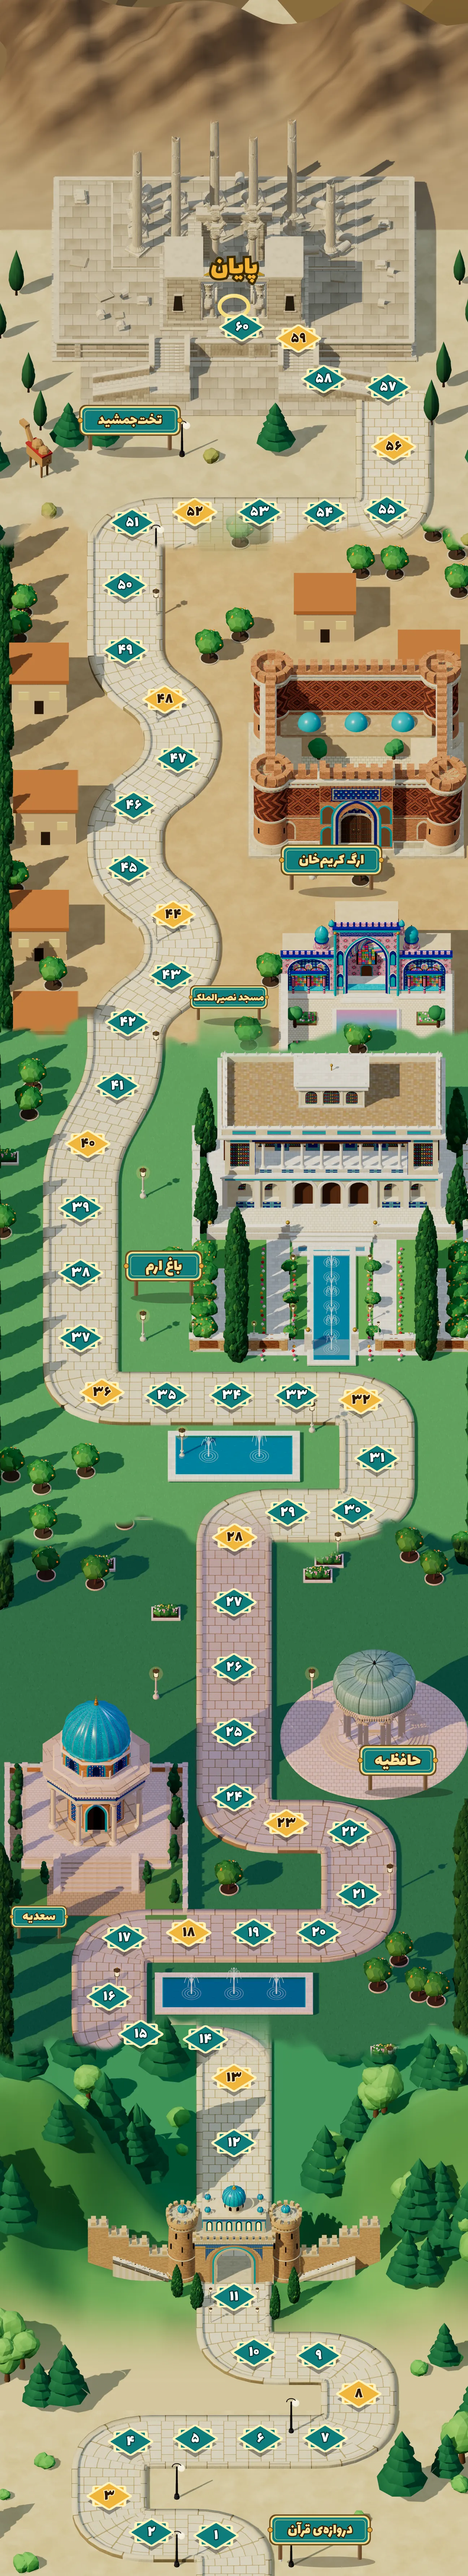
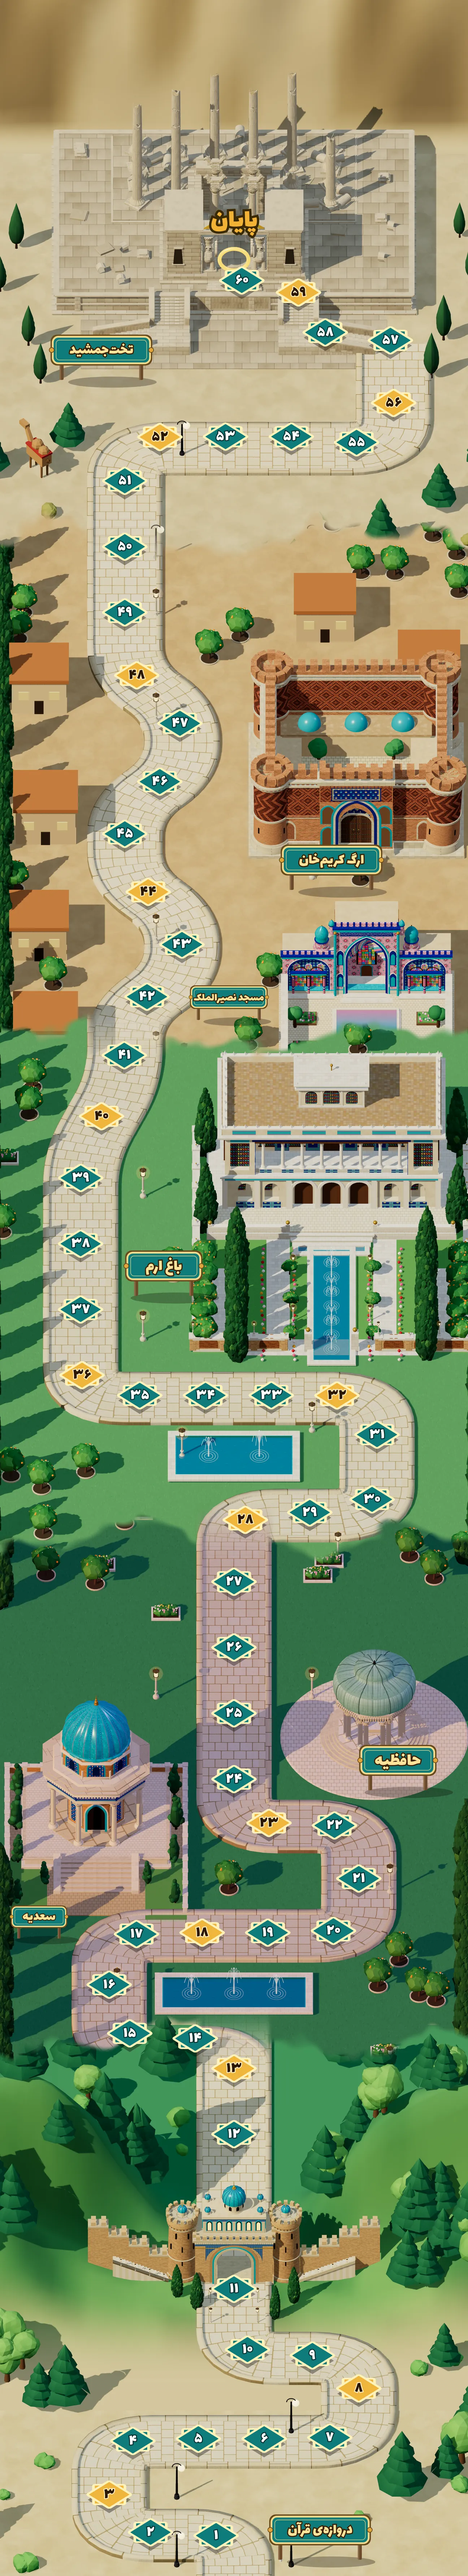
Shiraz board: Persepolis end: clean hills behind the terrace, road no longer under the citadel
Claude-Session: https://claude.ai/code/session_01Rjy4C5wyMsBPrp6gT8ag68

diff --git a/js/maps.js b/js/maps.js
@@ -14,8 +14,8 @@ const MAPS = [
     cities: ['دروازهی قرآن','حافظیه','باغ ارم','ارگ کریمخان','تختجمشید'],
     finish: 'تختجمشید', goalText: 'به تختجمشید رسیدی! کورش و داریوش منتظرتاند',
     image: 'assets/map-shiraz.webp', lite: 'assets/map-shiraz-lite.webp', preview: 'assets/map-shiraz-prev.webp', ratio: 2160 / 11880,
-    coords: [[46.16, 98.56], [32.347, 98.437], [23.333, 97.031], [27.902, 94.914], [41.724, 94.803], [55.601, 94.803], [69.474, 94.783], [76.667, 93.062], [68.104, 91.577], [54.292, 91.448], [50.0, 89.292], [50.0, 83.319], [50.0, 80.795], [43.909, 79.296], [30.075, 79.097], [23.333, 77.639], [26.594, 75.357], [40.323, 75.157], [54.2, 75.157], [68.077, 75.151], [76.667, 73.671], [74.693, 71.256], [61.185, 70.915], [50.065, 69.9], [50.0, 67.377], [50.0, 64.854], [50.0, 62.331], [50.149, 59.811], [61.469, 58.844], [75.314, 58.765], [80.556, 56.743], [77.105, 54.484], [63.36, 54.298], [49.483, 54.298], [35.606, 54.298], [21.784, 54.188], [17.222, 52.07], [17.222, 49.547], [17.222, 47.024], [18.756, 44.534], [25.037, 42.288], [27.297, 39.815], [36.635, 37.995], [36.994, 35.636], [27.522, 33.829], [28.544, 31.398], [38.021, 29.592], [35.223, 27.282], [26.781, 25.376], [26.667, 22.854], [28.254, 20.418], [41.614, 20.01], [55.491, 20.01], [69.358, 20.047], [82.649, 19.925], [84.1, 17.47], [82.91, 15.163], [69.171, 14.846], [63.778, 13.274], [51.666, 12.841]],
-    cellCity: [0, 0, 0, 0, 0, 0, 0, 0, 0, 0, 0, 0, 0, 0, 1, 1, 1, 1, 1, 1, 1, 1, 1, 1, 1, 1, 1, 1, 2, 2, 2, 2, 2, 2, 2, 2, 2, 2, 2, 2, 2, 3, 3, 3, 3, 3, 3, 3, 3, 3, 4, 4, 4, 4, 4, 4, 4, 4, 4, 4],
+    coords: [[46.16, 98.56], [32.179, 98.436], [23.333, 96.969], [28.392, 94.891], [42.399, 94.803], [56.444, 94.803], [70.477, 94.758], [76.667, 92.848], [66.756, 91.571], [52.893, 91.341], [50.0, 88.985], [50.0, 82.981], [50.0, 80.427], [41.723, 79.265], [27.721, 79.064], [23.333, 77.179], [29.161, 75.211], [43.19, 75.157], [57.236, 75.157], [71.254, 75.086], [76.667, 73.057], [71.486, 70.996], [57.476, 70.9], [50.0, 69.195], [50.0, 66.641], [50.0, 64.087], [50.0, 61.534], [52.424, 59.131], [66.192, 58.844], [79.487, 58.337], [80.556, 55.823], [72.008, 54.305], [57.963, 54.298], [43.918, 54.298], [29.872, 54.298], [17.541, 53.513], [17.222, 50.966], [17.222, 48.412], [17.254, 45.859], [21.703, 43.467], [26.567, 41.098], [31.422, 38.826], [38.889, 36.8], [31.656, 34.754], [26.667, 32.502], [34.141, 30.477], [38.456, 28.212], [29.219, 26.347], [26.667, 23.905], [26.667, 21.352], [26.667, 18.798], [34.155, 17.095], [48.2, 17.081], [62.245, 17.081], [76.203, 17.305], [84.1, 15.774], [83.415, 13.345], [69.504, 13.037], [63.778, 11.486], [51.666, 11.023]],
+    cellCity: [0, 0, 0, 0, 0, 0, 0, 0, 0, 0, 0, 0, 0, 0, 1, 1, 1, 1, 1, 1, 1, 1, 1, 1, 1, 1, 1, 2, 2, 2, 2, 2, 2, 2, 2, 2, 2, 2, 2, 2, 2, 3, 3, 3, 3, 3, 3, 3, 3, 3, 4, 4, 4, 4, 4, 4, 4, 4, 4, 4],
     fx: false, price: 150
   }
 ];

diff --git a/sw.js b/sw.js
@@ -1,5 +1,5 @@
 // نخ بده — offline support
-const CACHE = 'nakh-bede-v75';
+const CACHE = 'nakh-bede-v76';
 // The board image is large; it is fetched after install, in the background, so it
 // never competes with the first screen. (It is also cached the first time it is used.)
 // The board image is fetched by the page itself (it picks the full or the lite size)
